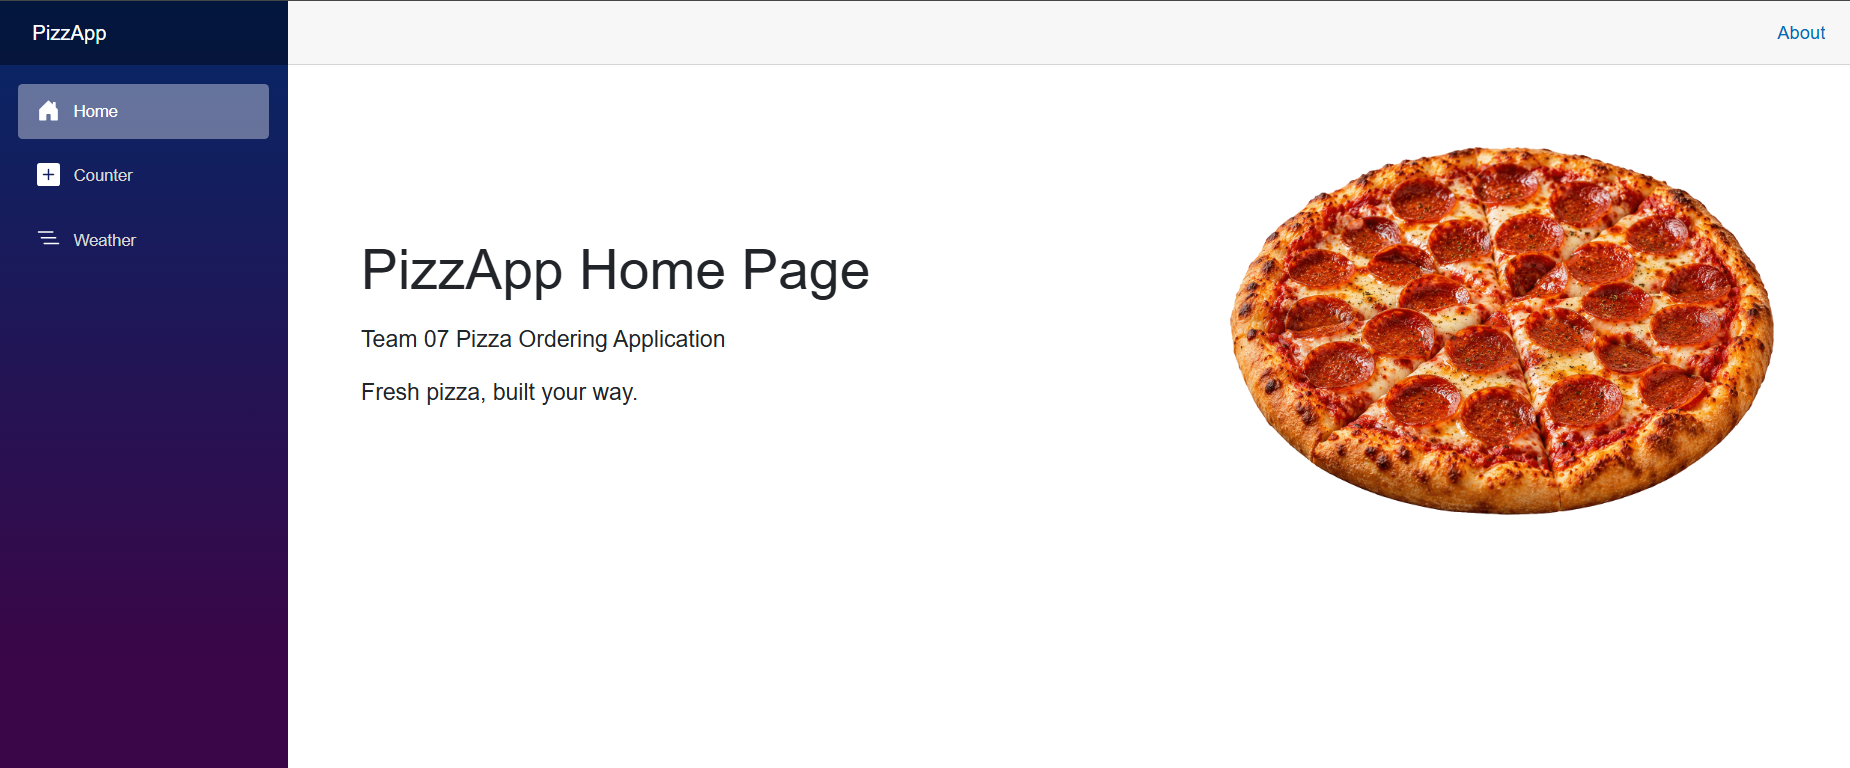
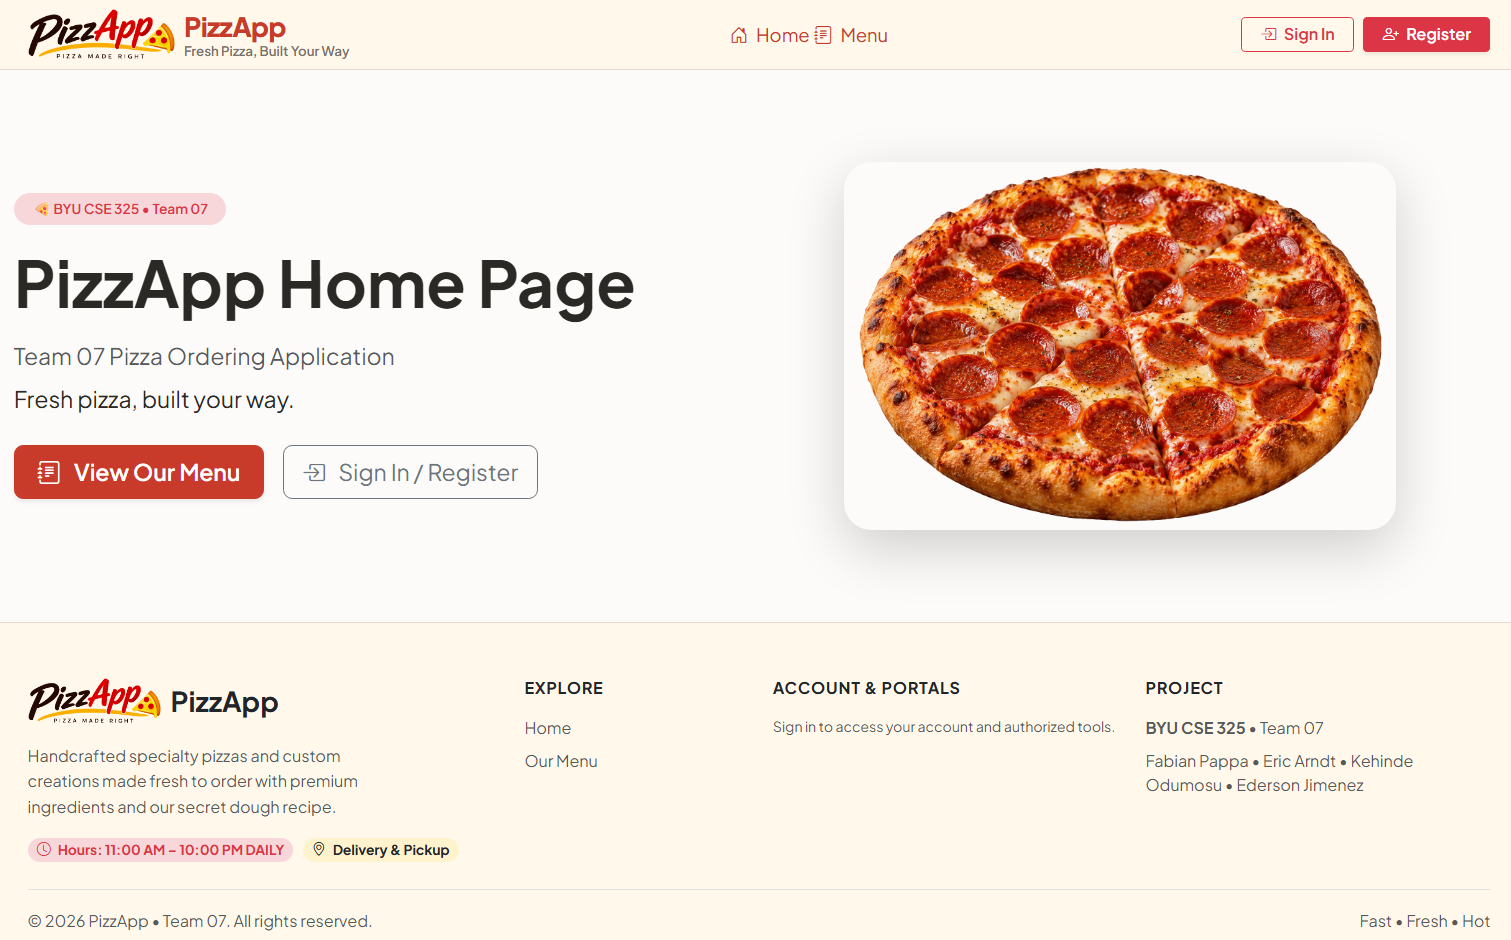
Complete project README documentation

diff --git a/README.md b/README.md
@@ -1,4 +1,18 @@
-# cse325-Team07
+# PizzApp — CSE 325 Team 07
+
+PizzApp is a full-stack pizza ordering application developed by Team 07 for BYU-Idaho CSE 325.
+
+The application allows customers to browse specialty pizzas, build custom pizzas, manage a shopping cart, place pickup or delivery orders, track active orders, and review previous orders. Staff and administrator accounts provide additional tools for order fulfillment, menu management, staff management, store settings, and sales reporting.
+
+## Live Application
+
+https://cse325-team07.onrender.com
+
+## Project Board
+
+Team planning and task tracking:
+
+[Team 07 Trello Board](https://trello.com/b/6aa199737e69596e917c575a)
 
 ## Team Members
 
@@ -7,10 +21,153 @@
 - Kehinde Odumosu
 - Ederson Jimenez
 
-## Current PizzApp Home Page
+## Major Features
 
-The initial Team 07 Blazor application scaffold is running on .NET 10.
+### Customer
+
+- Register and sign in with a customer account
+- Browse database-backed specialty pizzas
+- Build custom pizzas with size, crust, sauce, cheese, and topping selections
+- Add pizzas to a shopping cart and adjust quantities
+- Choose pickup or delivery during checkout
+- View calculated subtotal, tax, delivery fee, and order total
+- Track active order status
+- Cancel eligible active orders with a cancellation reason
+- View past orders and receipts
+- Reorder previous purchases using current menu pricing
+- Manage account profile and password
+
+### Staff
+
+- View active customer orders
+- Update orders through the fulfillment workflow
+- Process both pickup and delivery orders
+- View order details needed for fulfillment
+
+### Administrator
+
+- Access the Staff Dashboard
+- Edit specialty pizza information and availability
+- Manage staff accounts and roles
+- Reset staff passwords
+- Enable or disable staff accounts
+- Configure store settings such as:
+  - Operating hours
+  - Delivery radius
+  - Delivery fee
+  - Sales tax percentage
+- View daily sales information
+- View 30-day sales summary information
+- View top-selling pizza information
+
+## Order Workflow
+
+PizzApp supports the following internal order statuses:
+
+1. Received
+2. Baking
+3. Ready
+4. Out for Delivery
+5. Completed
+6. Cancelled
+
+Customer-facing status labels vary depending on whether an order is for pickup or delivery.
+
+## Technology Stack
+
+- .NET 10
+- ASP.NET Core
+- Blazor Web App with Interactive Server rendering
+- Entity Framework Core 10
+- ASP.NET Core Identity
+- PostgreSQL
+- Npgsql Entity Framework Core provider
+- Neon PostgreSQL for the hosted database
+- Bootstrap / Bootstrap Icons
+- Docker
+- Render for production hosting
+
+## Database and Authentication
+
+PizzApp uses Entity Framework Core with PostgreSQL for persistent application data.
+
+The application uses ASP.NET Core Identity for authentication and role management. Supported application roles include:
+
+- Customer
+- Staff
+- Administrator
+
+The database is initialized at application startup with required roles, menu data, and development/demo data when appropriate.
+
+## Local Development
+
+### Requirements
+
+Install:
+
+- .NET 10 SDK
+- PostgreSQL, or access to a PostgreSQL-compatible hosted database such as Neon
+
+### Clone the Repository
+
+git clone https://github.com/Pappafabian17/cse325-Team07.git
+
+### Configure the Database
+
+PizzApp reads its PostgreSQL connection string from:
+
+ConnectionStrings:DefaultConnection
+
+For local development, the connection string can be stored using .NET User Secrets or another ASP.NET Core configuration provider.
+
+Example:
+
+dotnet user-secrets set "ConnectionStrings:DefaultConnection" "Host=YOUR_HOST;Database=YOUR_DATABASE;Username=YOUR_USERNAME;Password=YOUR_PASSWORD"
+
+If no `DefaultConnection` value is supplied, the application is configured to fall back to a local PostgreSQL development database named `pizzapp_dev`.
+
+### Restore and Run
+
+From the repository root:
+
+dotnet restore .\PizzApp\PizzApp.csproj
+dotnet build .\PizzApp\PizzApp.csproj
+dotnet run --project .\PizzApp\PizzApp.csproj
+
+Open the local URL displayed by ASP.NET Core in the terminal.
+
+## Project Structure
+
+PizzApp/
+├── Components/
+│   ├── Layout/          Navigation and shared layout components
+│   └── Pages/           Customer, staff, and administrator pages
+├── Data/                EF Core database context, migrations, and seed data
+├── Endpoints/           Authentication endpoints
+├── Models/              Application and database models
+├── Services/            Application services such as shopping-cart state
+├── wwwroot/             Static assets, images, CSS, and client resources
+├── Program.cs           Application startup and service configuration
+└── PizzApp.csproj       .NET project configuration
+
+## Deployment
+
+The production application is containerized with Docker and deployed through Render.
+
+The Docker build:
+
+1. Restores the .NET project
+2. Publishes the application in Release mode
+3. Runs the published application using the ASP.NET Core .NET 10 runtime
+
+Production database connectivity is provided through environment configuration rather than credentials stored in the repository.
+
+## Current PizzApp Home Page
 
 <img src="docs/images/simple-homepage.png"
      alt="PizzApp Home Page"
      width="900">
+
+## Course
+
+**BYU-Idaho CSE 325 — Team 07**
